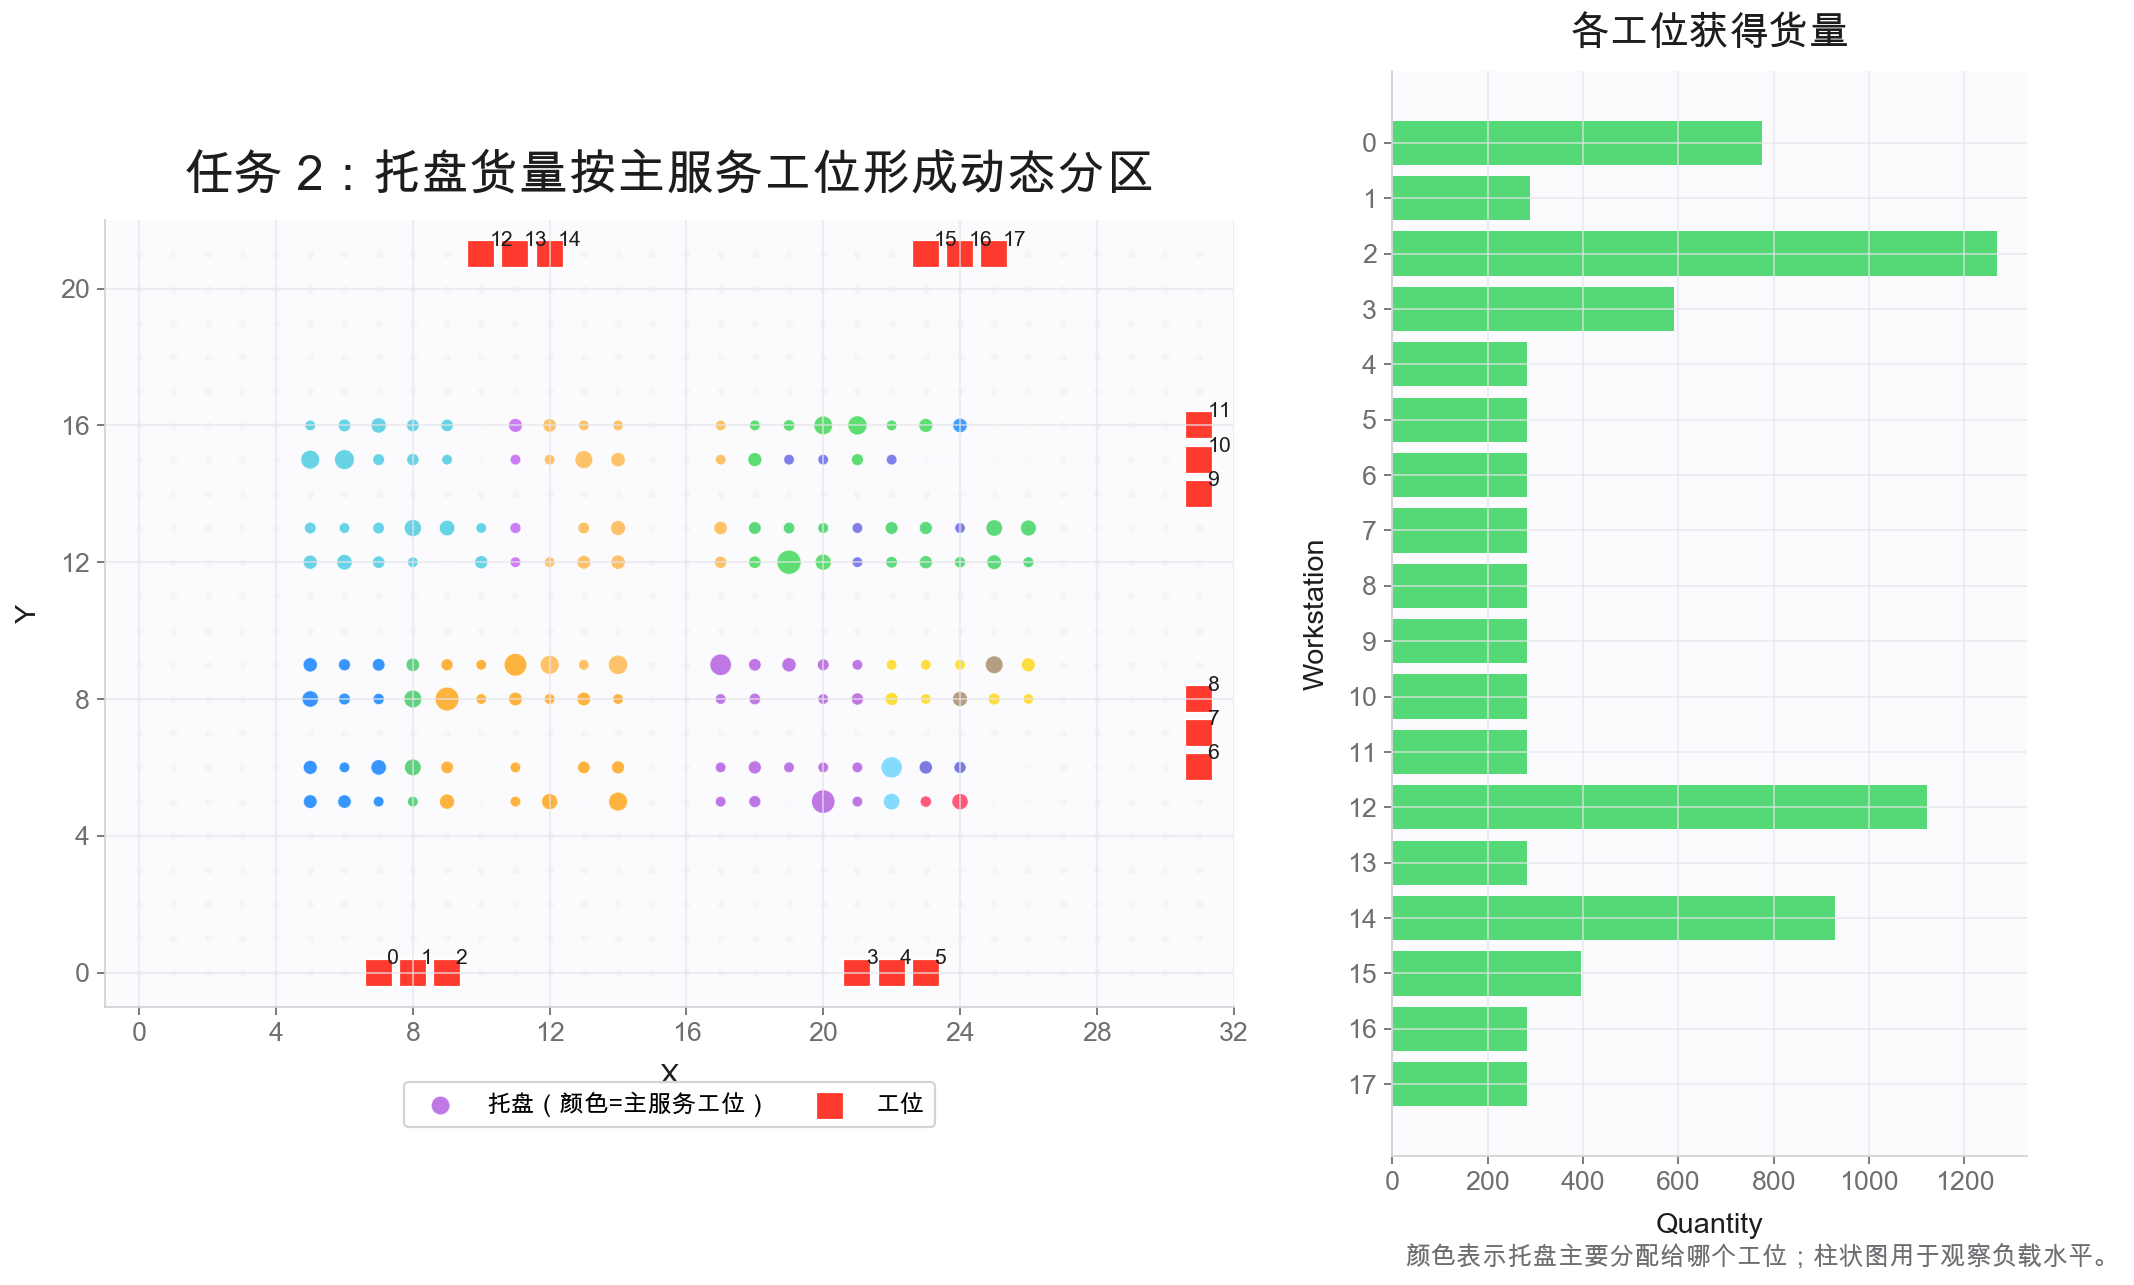
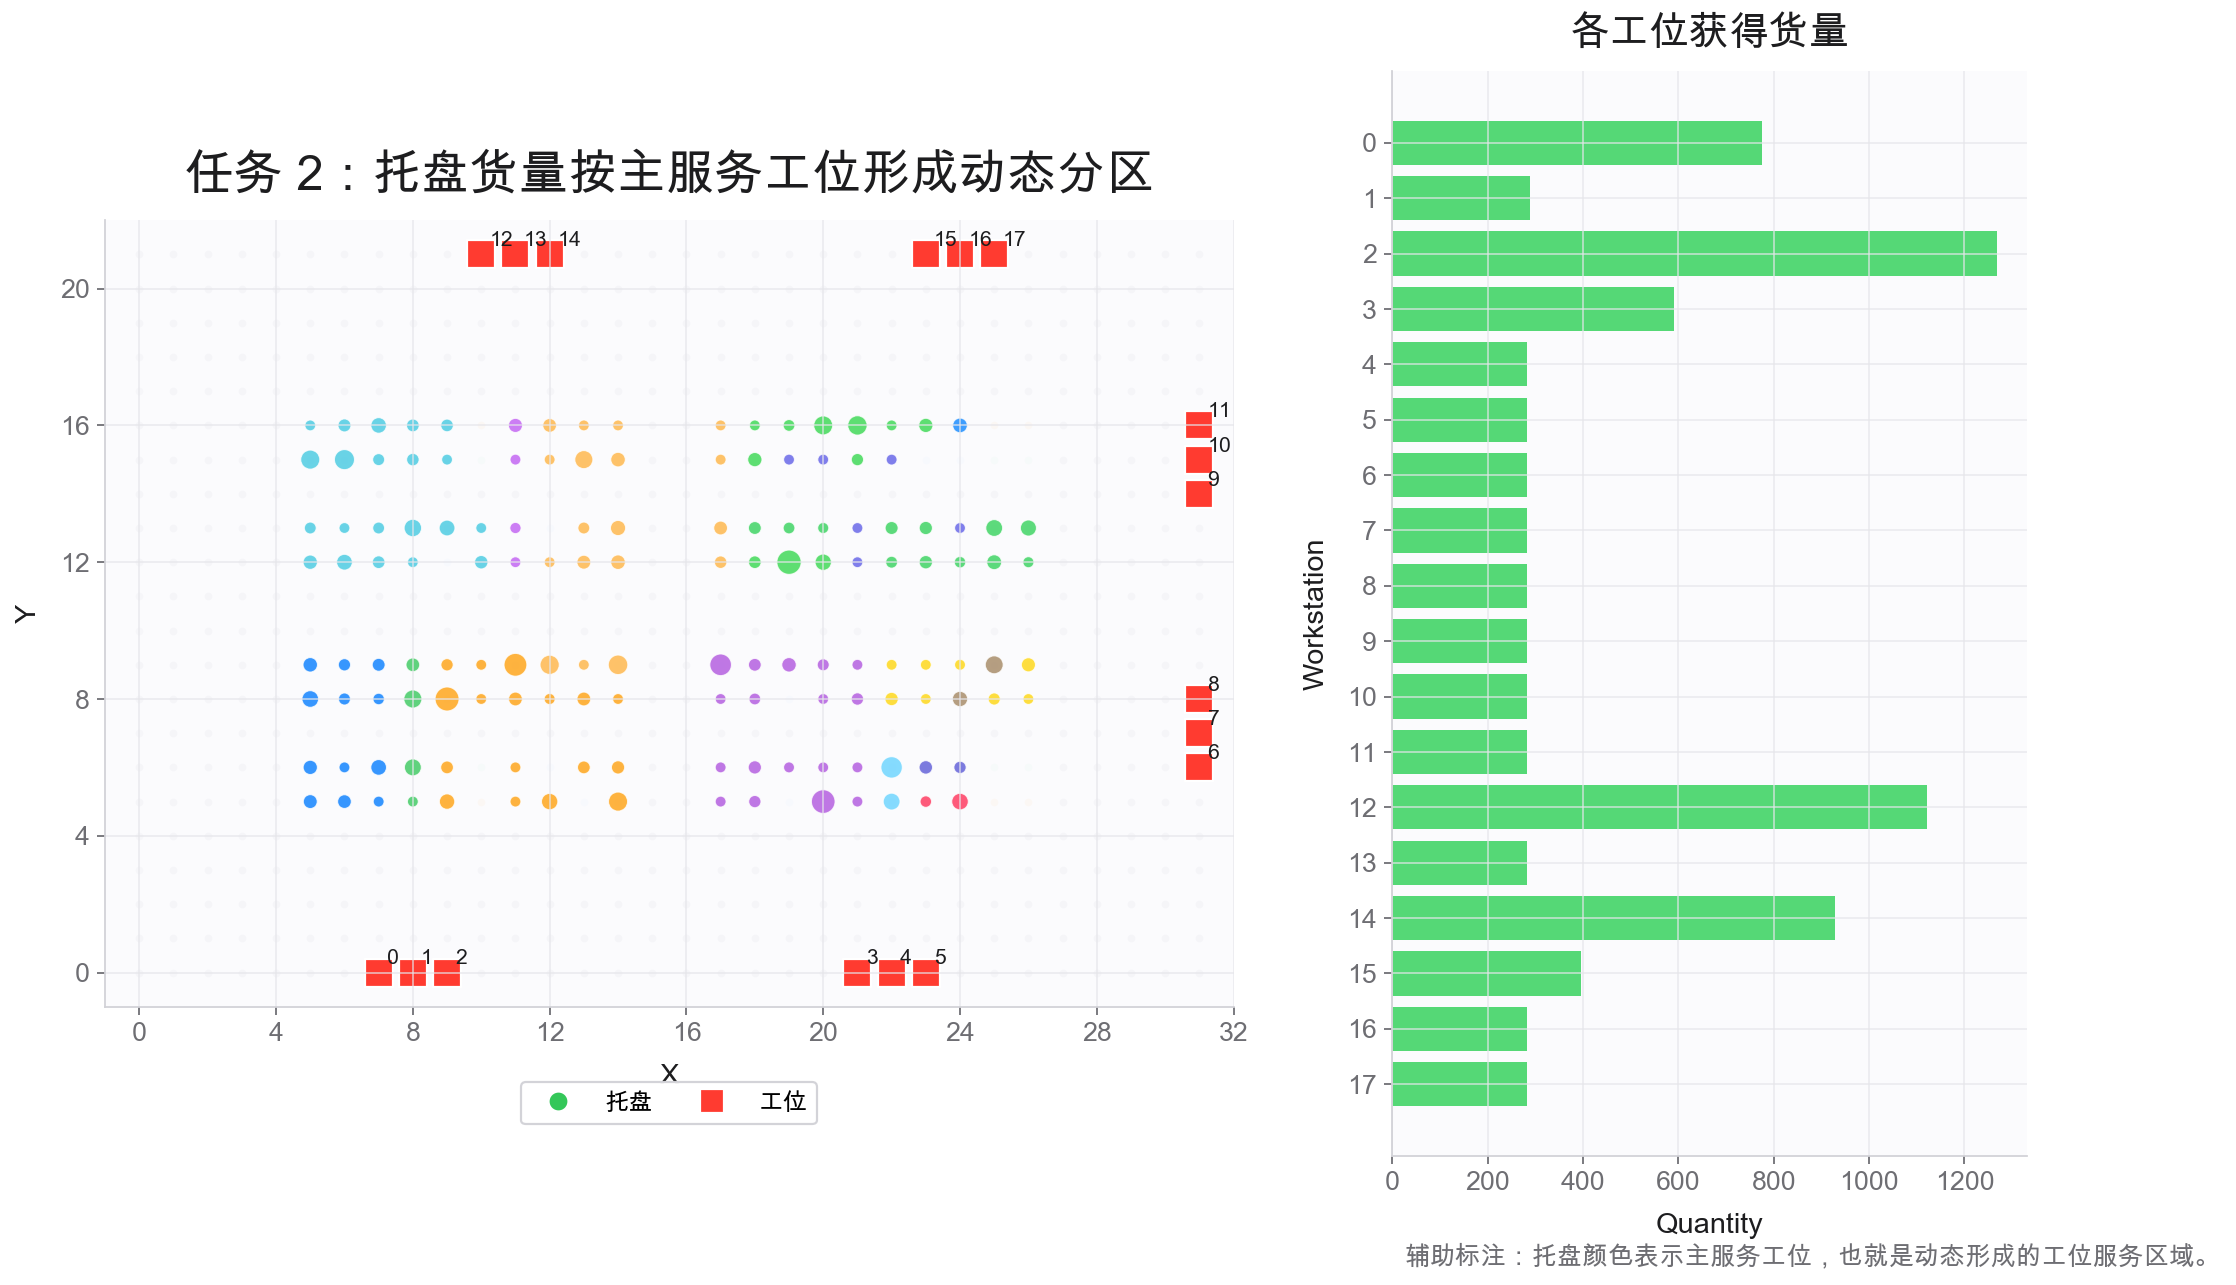
Align figure legends with warehouse entities

diff --git a/scripts/make_readme_figures.py b/scripts/make_readme_figures.py
@@ -321,7 +321,7 @@ def draw_task1_assignment() -> None:
         alpha=0.86,
         edgecolors="white",
         linewidths=0.4,
-        label="未选托盘",
+        label="_nolegend_",
         zorder=3,
     )
 
@@ -397,20 +397,19 @@ def draw_task1_assignment() -> None:
 
     ax_info.set_title("图例与说明", loc="left", fontsize=20, fontweight="bold", pad=14)
     task1_handles = [
-        marker_handle("o", COLORS["pallet_light"], "未选托盘", size=9),
+        marker_handle("o", COLORS["pallet"], "托盘", size=9),
         marker_handle("s", COLORS["workstation"], "工位", size=11),
         marker_handle("^", COLORS["agv"], "AGV", size=11),
-        line_handle(COLORS["route_pickup"], "取货路径", linestyle="--"),
-        line_handle(COLORS["route_delivery"], "送达路径"),
     ]
     panel_legend(ax_info, task1_handles, y=0.92)
     ax_info.text(
         0.04,
-        0.44,
+        0.50,
+        "辅助标注\n"
         f"展示路线：前 {len(shown)} 条\n"
         f"完整分配：{len(assignments)} 条\n"
-        "虚线：AGV 到托盘\n"
-        "实线：托盘到工位",
+        "蓝色虚线：AGV 到托盘\n"
+        "橙色实线：托盘到工位",
         transform=ax_info.transAxes,
         fontsize=13,
         fontweight="semibold",
@@ -425,7 +424,7 @@ def draw_task1_assignment() -> None:
     )
     ax_info.text(
         0.04,
-        0.18,
+        0.19,
         "结果文件\nresults/agv_assignment.csv",
         transform=ax_info.transAxes,
         fontsize=12,
@@ -468,14 +467,39 @@ def draw_task2_partition() -> None:
         alpha=0.78,
         edgecolors="white",
         linewidths=0.5,
-        label="托盘（颜色=主服务工位）",
+        label="_nolegend_",
     )
-    ax_map.scatter(workstations[:, 0], workstations[:, 1], s=150, c=COLORS["workstation"], marker="s", edgecolors="white", linewidths=1.0, label="工位")
+    ax_map.scatter(
+        workstations[:, 0],
+        workstations[:, 1],
+        s=150,
+        c=COLORS["workstation"],
+        marker="s",
+        edgecolors="white",
+        linewidths=1.0,
+        label="_nolegend_",
+    )
     for idx, (x, y) in enumerate(data.workstations):
         ax_map.text(x + 0.24, y + 0.24, str(idx), fontsize=9.5, color=COLORS["text"], weight="bold")
     setup_map_axis(ax_map, data)
     ax_map.set_title("任务 2：托盘货量按主服务工位形成动态分区", fontsize=22, fontweight="bold", pad=14)
-    place_legend(ax_map, columns=2, y=-0.08)
+    task2_handles = [
+        marker_handle("o", COLORS["pallet"], "托盘", size=9),
+        marker_handle("s", COLORS["workstation"], "工位", size=11),
+    ]
+    ax_map.legend(
+        handles=task2_handles,
+        loc="upper center",
+        bbox_to_anchor=(0.5, -0.08),
+        ncol=2,
+        frameon=True,
+        facecolor="white",
+        edgecolor=COLORS["edge"],
+        framealpha=0.96,
+        prop={"size": 11, "weight": "semibold"},
+        handlelength=2.2,
+        columnspacing=1.3,
+    )
 
     loads = loads.sort_values("workstation_index")
     ax_bar.barh(loads["workstation_index"].astype(str), loads["quantity"], color=COLORS["workload"], alpha=0.82)
@@ -487,7 +511,7 @@ def draw_task2_partition() -> None:
     ax_bar.text(
         0.02,
         -0.10,
-        "颜色表示托盘主要分配给哪个工位；柱状图用于观察负载水平。",
+        "辅助标注：托盘颜色表示主服务工位，也就是动态形成的工位服务区域。",
         transform=ax_bar.transAxes,
         fontsize=11.5,
         color=COLORS["muted"],
@@ -534,7 +558,7 @@ def draw_task3_layout() -> None:
         edgecolors=COLORS["text"],
         linewidths=1.2,
         marker="D",
-        label="选中重点位置",
+        label="重点缓存/中转点",
         zorder=6,
     )
     setup_map_axis(ax_map, data)
@@ -563,7 +587,7 @@ def draw_task3_layout() -> None:
     )
     task3_handles = [
         marker_handle("o", COLORS["candidate"], "候选货位", size=10),
-        marker_handle("D", COLORS["selected"], "选中重点位置", size=12),
+        marker_handle("D", COLORS["selected"], "重点缓存/中转点", size=12),
     ]
     panel_legend(ax_table, task3_handles, y=0.51)
     rows = [

diff --git a/README.en.md b/README.en.md
@@ -77,22 +77,32 @@ Distance is defined as:
 dist(a, b) = |x_a - x_b| + |y_a - y_b|
 ```
 
-### Visual Color Rules
+### Entity Legend and Visual Annotation Rules
 
-All README figures use a consistent visual language:
+All README figure legends now show only warehouse entities defined by this
+project. Routes, color encodings, and constraint notes are described as visual
+annotations instead of being mixed into the entity legend.
 
-| Meaning | Color in figures | Explanation |
+Entity legends use the following vocabulary:
+
+| Entity | Color in figures | Explanation |
 | --- | --- | --- |
 | AGV | blue triangle | vehicle position or vehicle starting point |
 | Pallet | green circle | existing pallet location; point size often represents quantity |
 | Workstation | red square | picking, packing, processing, inspection, or temporary handling point |
 | Candidate location | light-blue circle | candidate location in Task 3 |
-| Selected cache/transfer location | orange diamond | final selected location in Task 3 |
-| Pickup/delivery route | blue dashed line / orange solid line | AGV-to-pallet and pallet-to-workstation distance in Task 1 |
+| Cache/transfer point | orange diamond | final selected cache or transfer location in Task 3 |
 
-Task 2 uses an additional fixed categorical palette to show which workstation
-mainly serves each pallet. The workstation markers remain red, and the workload
-bars remain green.
+Visual annotations are not entities:
+
+- Task 1 uses blue dashed and orange solid lines only to explain the
+  `AGV -> pallet` and `pallet -> workstation` route segments.
+- Task 2 uses pallet colors to show each pallet's main serving workstation,
+  which forms the dynamic workstation service area. A warehouse area is not a
+  fixed physical marker, so it is not placed in the entity legend.
+- Background map nodes such as aisles, storage nodes, charging nodes, and
+  connection nodes show map structure only; they are not separate decision
+  entities in this project.
 
 ### Dataset Details
 
